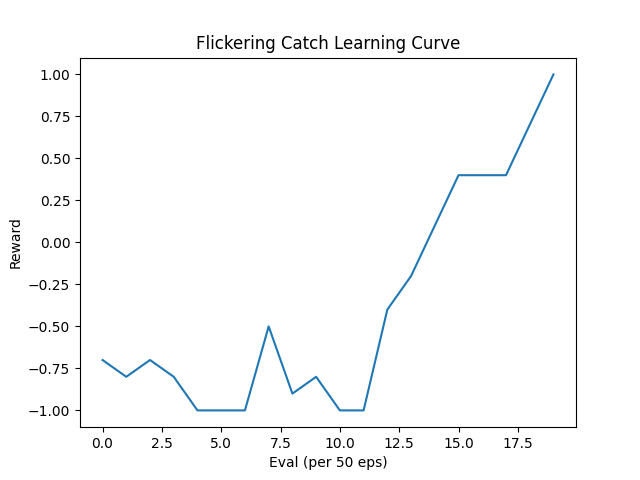
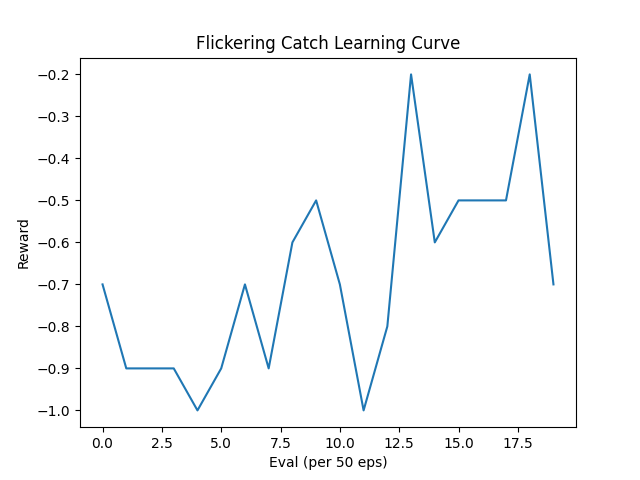
flicker suspect

diff --git a/RCQL.py b/RCQL.py
@@ -263,6 +263,7 @@ class RCQLAgent(Agent):
 
         self.v_optimizer.zero_grad()
         v_loss.backward()
+        torch.nn.utils.clip_grad_norm_(self.v_net.parameters(), max_norm=1.0)
         self.v_optimizer.step()
 
         for param, target_param in zip(self.v_net.parameters(), self.v_target.parameters()):
@@ -317,6 +318,7 @@ class RCQLAgent(Agent):
 
         self.q_optimizer.zero_grad()
         total_loss.backward()
+        torch.nn.utils.clip_grad_norm_(self.q_net.parameters(), max_norm=1.0)
         self.q_optimizer.step()
 
         for param, target_param in zip(self.q_net.parameters(), self.q_target.parameters()):
@@ -368,6 +370,7 @@ class RCQLAgent(Agent):
 
         self.q_optimizer.zero_grad()
         loss.backward()
+        torch.nn.utils.clip_grad_norm_(self.q_net.parameters(), max_norm=1.0)
         self.q_optimizer.step()
         
         return {"loss_supervised": loss.item()}
@@ -425,6 +428,7 @@ class RCQLAgent(Agent):
                            reduction='batchmean')
         self.q_optimizer.zero_grad()
         kl_loss.backward()
+        torch.nn.utils.clip_grad_norm_(self.q_net.parameters(), max_norm=1.0)
         self.q_optimizer.step()
         return {"loss_kl": kl_loss.item()}
 

diff --git a/Unit_Tests/test_cql_update.py b/Unit_Tests/test_cql_update.py
@@ -8,7 +8,8 @@ class TestCQLUpdate(unittest.TestCase):
     def setUp(self):
         self.obs_dim = 8
         self.action_dim = 4
-        self.agent = CQLAgent(obs_dim=self.obs_dim, action_dim=self.action_dim, gamma=0.9)
+        self.agent = CQLAgent(obs_dim=self.obs_dim, action_dim=self.action_dim)
+        self.agent.gamma = 0.9
 
     def test_cql_target_terminated_vs_truncated(self):
         # Mock target Q values: Q(s, a) = 10 for all a

diff --git a/rcql_advanced_tests.py b/rcql_advanced_tests.py
@@ -91,8 +91,7 @@ def run_flicker_catch(num_episodes=1000):
     agent.cql_alpha = 0.0
     # Before the episode loop
     fast_buffer = FastGPUEpisodicBuffer(
-        max_episodes=num_episodes, 
-        max_ep_len=16, 
+        max_total_transitions=num_episodes, 
         device=device, 
         obs_shape=(3, 16, 16)  # <--- Add this
     )

diff --git a/Usage.md b/Usage.md
@@ -39,14 +39,14 @@ These experiments use the `expert_demonstrations_LunarLander-v3.pkl` dataset to 
     python main.py --env LunarLander-v3 --algo cql --offline_rl --awbc --num_rl_frames 0 --num_unified_epochs 200 --preload_expert_data "expert_demonstrations_LunarLander-v3.pkl" --experiment_name "baseline_awcql" --seed 42
     ```
 
-### Exp 5: Online CQL + Offline CQL
+### Exp 5: Online RL (no conservative loss) + Offline CQL
 *   **Description**: Learns from CQL loss on both the offline expert data and the online collected rl data
 *   **Command**:
     ```bash
     python main.py --env LunarLander-v3 --algo cql --offline_rl --online_rl --num_rl_frames 2000 --num_unified_epochs 200 --preload_expert_data "expert_demonstrations_LunarLander-v3.pkl" --experiment_name "baseline_awcql" --seed 42
     ```
 
-### Exp 6: Online CQL + Offline CQL + AWBC
+### Exp 6: Online RL (no conservative loss) + Offline CQL + AWBC
 *   **Description**: Learns from CQL loss on both the offline expert data and the online collected rl data and advantage weighted cross entropy loss from the human expert data
 *   **Command**:
     ```bash